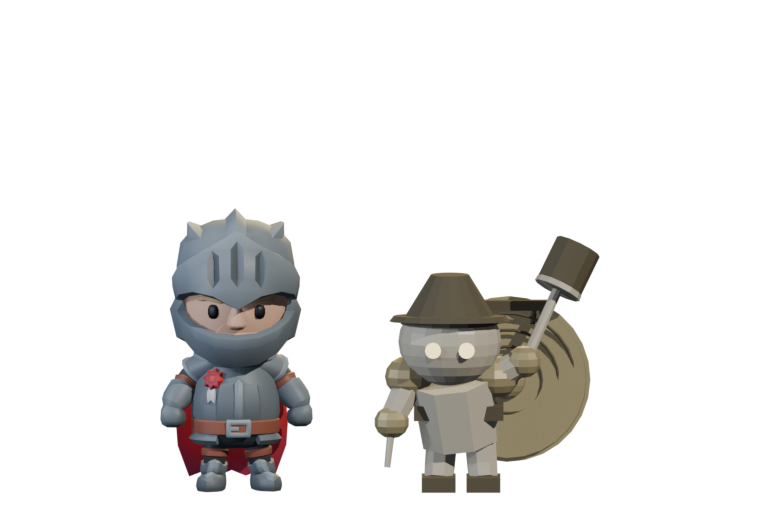
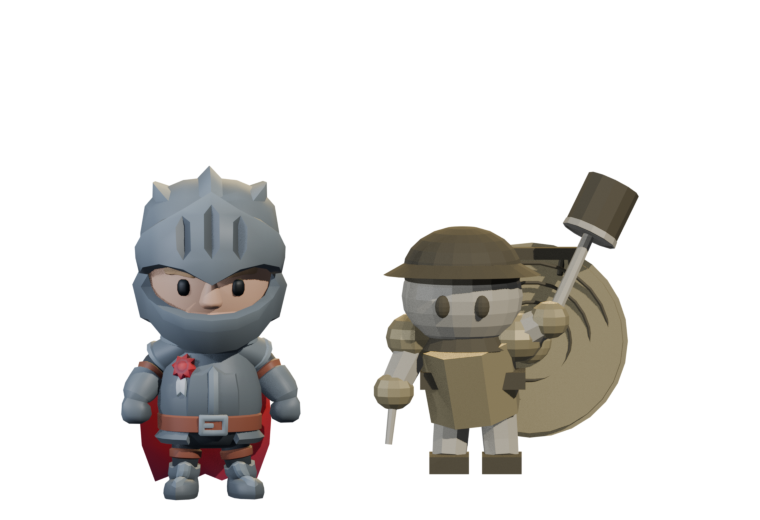
Drillmaster chibi, pass 3: the three register faults, closed one at a time
The 12:00 UTC pass said do not convert the other thirteen until the head and
register three are solved on the worked example. Solved, one change and one
render each, and I looked at every one:

1. THE HELM WAS A FARMER'S HAT. A cone with a point on it reads as a straw
   hat whatever it is called. A kettle helm is a BOWL - rounded crown, no
   apex - with a brim widest at its outer edge. Dome is now a squashed
   sphere, brim a cone whose bottom radius is the larger one. It reads as a
   soldier's helm from the front and from the side.
2. THE EYES WERE PALE GLOWING DISCS - a mummy, not a man, and nothing else in
   the game has them. Two dark ovals, taller than wide, sunk just under the
   face (head centre y -0.12, depth 0.44, so the surface is -0.56 and the
   ovals sit at -0.535). He has a face now.
3. HEAD AND TORSO WERE ONE BLANK PALE COLUMN with no neck. Torso takes the
   mid tone, head keeps the pale one, dark collar in the seam - the same
   three values the hero carries.

AND THE FIT SHOT ITSELF WAS BROKEN: the hero was offset along X only, so the
side view looked straight down the line of the pair and one body hid the
other. Offsetting in Y as well separates them on screen in both views. The
side view now carries information for every creature, not just this one.
Also added a BACK view - the rule is front AND side AND back.

STILL WRONG, and named rather than quietly fixed: the gong reads as a round
[…]

Changed region(s): [[0.4842, 0.3077, 0.8474, 0.9538], [0.1513, 0.3077, 0.4237, 0.9846]]

diff --git a/tools/art/minibosses.py b/tools/art/minibosses.py
@@ -1228,8 +1228,14 @@ def drillmaster_chibi():
                  (X + s * 0.20, -0.04, 0.10)], 0.145, 0.135)
         P.add(L.box(0.30, 0.40, 0.13), 'dark', loc=(X + s * 0.20, -0.12, 0.065))
     # TORSO - one barrel from hip to shoulder, wider than it is tall
+    # FAULT 3 OF THE THREE: head and torso were the SAME pale value with no
+    # neck, so the man read as one blank column. The torso takes the mid tone
+    # ('body') and the head keeps the pale one ('bone'), and a dark collar
+    # sits in the seam between them - the break a chibi head needs to read as
+    # a head. Same three values the hero uses: dark legs, mid body, pale face.
     limb(P, [(X, 0.08, HIP - 0.02), (X - 0.04, 0.00, 0.72), (X - 0.08, -0.08, 1.00)],
-         0.36, 0.38)
+         0.36, 0.38, 'body')
+    P.add(aim(L.cone(0.36, 0.30, 0.11, 18), (X - 0.09, -0.10, 0.94), (0.0, 0.0, 1.0)), 'dark')
     P.add(L.box(0.80, 0.34, 0.13), 'dark', loc=(X - 0.02, -0.06, 0.70))      # belt
     for s in (-1, 1):                                                        # shoulders
         P.add(L.sphere(0.22, 0.21, 0.19, 12, 8), 'body', loc=(X - 0.08 + s * 0.38, -0.08, 1.02))
@@ -1241,11 +1247,23 @@ def drillmaster_chibi():
     # both, so the one thing that says soldier - a kettle helm - said farmer.
     # The dome is taller and narrower and now clears the brim; the brim is
     # 1.08 m and sits high on the skull, where a helmet's does.
-    P.add(aim(L.cone(0.44, 0.17, 0.44, 16), (X - 0.10, -0.12, 1.50), (0.0, 0.0, 1.0)), 'dark')
-    P.add(aim(L.cone(0.54, 0.50, 0.05, 18), (X - 0.10, -0.12, 1.52), (0.0, 0.06, 1.0)), 'dark')
+    # PASS 3, and this is the first of the three register faults being closed:
+    # a cone with a point on it is a FARMER'S HAT whatever you call it. A
+    # kettle helm is a BOWL - rounded crown, no apex - with a brim that is
+    # widest at its outer edge and droops. So the dome is a squashed sphere
+    # and the brim is a cone whose BOTTOM radius is the larger one.
+    P.add(aim(L.cone(0.60, 0.44, 0.09, 20), (X - 0.10, -0.12, 1.50), (0.0, 0.05, 1.0)), 'dark')
+    P.add(L.sphere(0.45, 0.43, 0.33, 18, 12), 'dark', loc=(X - 0.10, -0.12, 1.54))
     # and the eyes were INSIDE THE SKULL. The head is 0.44 deep and they sat at
     # 0.40, so the face was blank from every angle. Measured, not nudged.
-    eyes(P, (X - 0.10, 0.0, 1.30), 0.150, 0.072, -0.545)
+    # FAULT 2 OF THE THREE: pale glowing DISCS read as a mummy, not a man, and
+    # nothing else in the game has them - a KayKit face is two dark ovals,
+    # taller than they are wide, sunk just under the surface of the skull.
+    # Head centre y -0.12, depth radius 0.44, so the face is at y -0.56: the
+    # ovals sit at -0.535 and stand 0.015 proud, not floating in front of it.
+    for s in (-1, 1):
+        P.add(L.sphere(0.058, 0.040, 0.088, 12, 8), 'dark',
+              loc=(X - 0.10 + s * 0.150, -0.535, 1.30))
     # ARMS - short, thick, ending in mitts. Right arm up on the mallet.
     limb(P, [(X + 0.26, -0.10, 1.00), (X + 0.52, -0.16, 1.14)], 0.145, 0.120)
     P.add(L.sphere(0.155, 0.150, 0.145, 10, 7), 'body', loc=(X + 0.56, -0.16, 1.16))

diff --git a/tools/art/minibossfit.py b/tools/art/minibossfit.py
@@ -112,10 +112,17 @@ def import_hero(repo):
                                   parts=[o.name for o in meshes])
 
 
-def place(roots, dx):
+def place(roots, dx, dy=0.0):
+    """THE SIDE VIEW WAS ONE BODY HIDING ANOTHER. The hero used to be offset
+    along X only, so at azimuth 90 the camera looked straight down the line of
+    the pair and the hero stood in front of the creature - a fit shot in which
+    you can see neither of them. Offsetting in Y as well separates them on
+    screen in BOTH views: X apart for front and back, Y apart for the side,
+    and the two never overlap because they are apart on the other axis each
+    time."""
     for o in roots:
         if o.parent is None:
-            o.location = (o.location.x + dx, o.location.y, o.location.z)
+            o.location = (o.location.x + dx, o.location.y + dy, o.location.z)
     bpy.context.view_layer.update()
 
 
@@ -257,14 +264,15 @@ def main():
                 rep["hero"] = hero
                 mn, mx, _ = G.world_bounds(objs)
                 # hero to the creature's left, clear of its footprint
-                place(hroots, mn.x - GAP - hero["w"] / 2.0 - 0.10)
+                place(hroots, mn.x - GAP - hero["w"] / 2.0 - 0.10,
+                      mn.y - GAP - hero["d"] / 2.0 - 0.10)
                 allo = objs + hmesh
                 bpy.context.view_layer.update()
                 amn, amx, pts = G.world_bounds(allo)
                 outdir = os.path.join(args.repo, "renders", "art", "minibosses", key)
                 os.makedirs(outdir, exist_ok=True)
                 written, eng = shoot(allo, pts, outdir,
-                                     (("front", 0.0), ("side", 90.0)), info["aura"])
+                                     (("front", 0.0), ("side", 90.0), ("back", 180.0)), info["aura"])
                 rep["pairs"][key] = dict(
                     creature_h=round(mx.z - mn.z, 3), hero_h=hero["h"],
                     ratio=round((mx.z - mn.z) / max(0.01, hero["h"]), 2),
